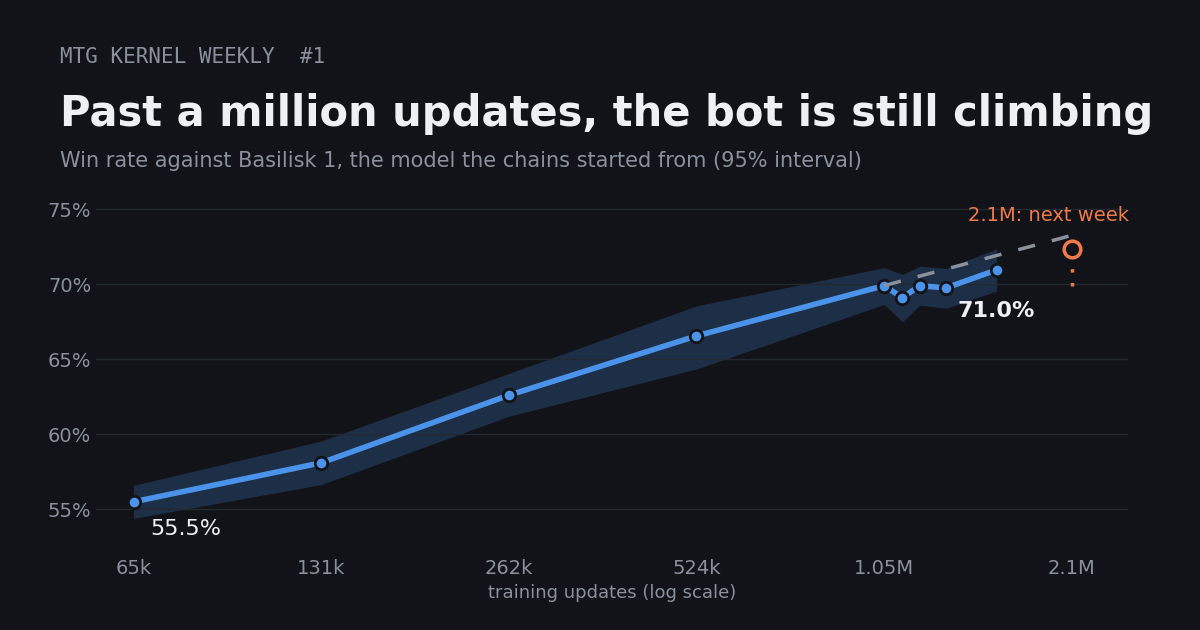
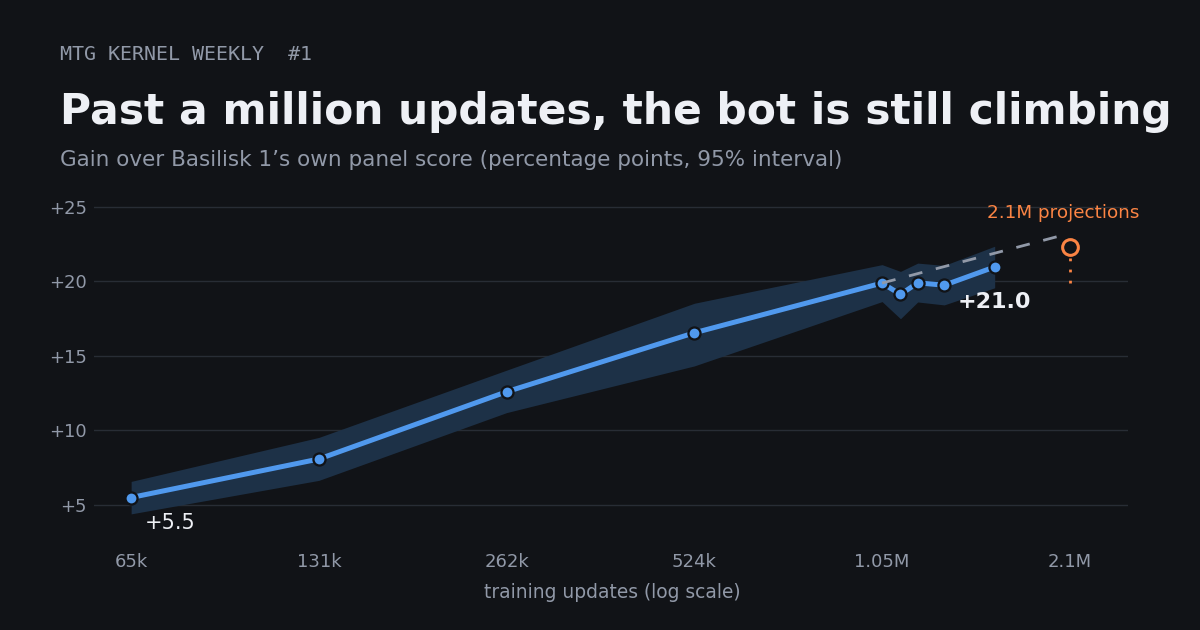
Correct the weekly chart to report paired score gains

diff --git a/viewer/public/blog/2026-11-20-still-climbing/index.html b/viewer/public/blog/2026-11-20-still-climbing/index.html
@@ -79,13 +79,13 @@ th:first-child, td:first-child { text-align: left; }
 th { color: var(--ink-3); font-weight: 500; }
 @media (prefers-reduced-motion: reduce) { * { transition: none !important; animation: none !important; } }
 </style>
-<meta name="description" content="Each doubling of training still buys wins against the model the chains started from. It just buys fewer than it used to.">
+<meta name="description" content="After a million updates, the three chains gained about 2.44 percentage points per doubling on a fixed panel. The pace may be slowing.">
 <link rel="canonical" href="https://jackmaiorino.github.io/mtg-kernel/blog/2026-11-20-still-climbing/">
 <link rel="alternate" type="application/atom+xml" title="MTG Kernel Weekly" href="../feed.xml">
 <meta property="og:type" content="article">
 <meta property="og:site_name" content="MTG Kernel">
 <meta property="og:title" content="Past a million updates, the bot is still climbing">
-<meta property="og:description" content="Each doubling of training still buys wins against the model the chains started from. It just buys fewer than it used to.">
+<meta property="og:description" content="After a million updates, the three chains gained about 2.44 percentage points per doubling on a fixed panel. The pace may be slowing.">
 <meta property="og:url" content="https://jackmaiorino.github.io/mtg-kernel/blog/2026-11-20-still-climbing/">
 <meta property="og:image" content="https://jackmaiorino.github.io/mtg-kernel/blog/2026-11-20-still-climbing/og.png">
 <meta property="og:image:width" content="1200">
@@ -99,76 +99,86 @@ th { color: var(--ink-3); font-weight: 500; }
   <header>
     <div class="eyebrow"><span>mtg-kernel weekly</span><span>#1</span><span>Week of Nov 14 to 20, 2026</span></div>
     <h1>Past a million updates, the bot is <em>still climbing</em></h1>
-    <p class="dek">Each doubling of training still buys wins. It just buys fewer than it used to.</p>
+    <p class="dek">After a million updates, the three chains gained about 2.44 percentage points per doubling on a fixed panel. The pace may be slowing.</p>
   </header>
 
   <section class="card" aria-labelledby="c1t">
     <div class="chart-head">
       <div>
-        <p class="chart-title" id="c1t">Win rate against Basilisk 1, the model the chains started from</p>
-        <p class="chart-sub">Mean of three self-play chains, 3,888 games per checkpoint, 95% interval</p>
+        <p class="chart-title" id="c1t">Gain over Basilisk 1 on the same matchups</p>
+        <p class="chart-sub">Percentage points, with a 95% paired interval. Each of three chains played 3,888 games per checkpoint.</p>
       </div>
-      <div class="big"><div class="n" id="bigN">71.0%</div><div class="l" id="bigL">at 1.59M updates</div></div>
+      <div class="big"><div class="n" id="bigN">+21.0 pts</div><div class="l" id="bigL">at 1.59M updates</div></div>
     </div>
     <div class="svgbox" id="box1">
-      <svg id="c1" viewBox="0 0 720 360" role="img" aria-label="Line chart: win rate rises from 55.5 percent at 65 thousand updates to 71.0 percent at 1.59 million updates, flattening after 1 million."></svg>
+      <svg id="c1" viewBox="0 0 720 360" role="img" aria-label="The gain over Basilisk 1 rises from 5.5 points at 65,536 updates to 21.0 points at 1.59 million updates."></svg>
       <div class="tip" id="tip" hidden></div>
     </div>
     <div class="legend">
       <span><i class="sw"></i>Measured</span>
       <span><i class="sw band"></i>95% interval</span>
       <span><i class="sw proj"></i>If every doubling paid like 524k to 1.05M</span>
-      <span><i class="sw pend"></i>2.1M: games played, not read yet</span>
+      <span><i class="sw pend"></i>2.1M projections</span>
     </div>
     <div class="controls"><button id="replay" type="button">Replay the climb</button></div>
   </section>
 
   <section class="card" aria-labelledby="c2t">
-    <p class="chart-title" id="c2t">Win rate points gained per doubling of training</p>
-    <p class="chart-sub">Past 1.05M: regression slope over nine checkpoints per chain, with its 95% interval</p>
-    <div class="svgbox"><svg id="c2" viewBox="0 0 720 210" role="img" aria-label="Bar chart: points per doubling were 2.6, 4.5, 4.0 and 3.4 through 1.05 million updates, and about 2.5 after."></svg></div>
+    <p class="chart-title" id="c2t">Percentage points gained per doubling of training updates</p>
+    <p class="chart-sub">After 1.05M, the estimate uses nine checkpoints per chain. The whisker shows the 95% interval across the three slopes.</p>
+    <div class="svgbox"><svg id="c2" viewBox="0 0 720 210" role="img" aria-label="Bar chart: points per doubling were 2.6, 4.5, 4.0 and 3.3 through 1.05 million updates, and about 2.4 after."></svg></div>
   </section>
 
   <article class="prose">
     <h2>What we learned</h2>
-    <p>Our main training chains learn Pauper by playing against themselves and a few earlier models, and the only reward is winning. At each checkpoint we test them against Basilisk 1, the public model they started from, on a fixed panel of 3,888 games.</p>
-    <p>Through the middle of the curve, each doubling of training added 3.4 to 4.5 points of win rate. Past a million updates the best estimate is about 2.5 points per doubling. The interval rules out a flat line, so the chains are still improving. It does not yet rule out the old rate, so "slowing down" is our best guess, not a settled fact.</p>
+    <p>Our main training chains learn Pauper by playing against themselves and a few earlier models, and the only reward is winning. We test them against Basilisk 1, the public model they started from. Basilisk 1 scored 49.79% against itself on the same deals. At 1.59 million updates, the three chains averaged 70.76% against it, a gain of 20.96 percentage points. A draw counts as half a win.</p>
+    <p>The last doubling before 1.05 million updates gained 3.34 points. Across the later checkpoints, the estimated gain was 2.44 points per doubling. Its 95% interval, 1.41 to 3.46, includes that earlier pace. Comparing just the first and last of those checkpoints gives a gain of 1.08 points, with an interval that includes zero.</p>
     <p>That shapes how we spend the fleet. More of the same training still pays, probably more slowly. So the next experiments add what the bot could not do before: mulligans and full priority windows are next to go into training, as their own forks.</p>
     <h2>Next week</h2>
-    <p>The first games at 2.1M updates are already played and sealed until the read. If the trend holds, it lands near 72%. If the curve has gone flat, it lands near 70%.</p>
+    <p>At the time of this analysis, two of the three chains had played their 2.1M games. Their results were still sealed. Projecting from 1.05M gives a gain over Basilisk 1 of about 22 points if the later trend continues, or about 20 points if it stays flat.</p>
   </article>
 
   <footer class="foot">
     <details>
       <summary>Show the numbers</summary>
-      <div class="tbl"><table id="tbl"><thead><tr><th>Updates</th><th>Win rate</th><th>95% interval</th></tr></thead><tbody></tbody></table></div>
+      <div class="tbl"><table id="tbl"><thead><tr><th>Updates</th><th>Gain (points)</th><th>95% interval (points)</th></tr></thead><tbody></tbody></table></div>
     </details>
-    <p>Win rate counts a draw as half a win and is read from the signed score as 50% plus half the score. The yardstick is the chains' own starting point, so this measures progress, not strength against the wider field. Spellbench ratings are the outside view.</p>
+    <p>The shaded band measures uncertainty in the gain. It resamples chains and matched deal families together. This panel measures progress against the starting model. Spellbench ratings give a wider comparison.</p>
   </footer>
 </div>
 
 <script>
 (function () {
   var pts = [
-    [65536, 55.5, 54.4, 56.6], [131072, 58.1, 56.65, 59.55], [262144, 62.6, 61.2, 64.05],
-    [524288, 66.55, 64.35, 68.55], [1048576, 69.9, 68.65, 71.1], [1122304, 69.1, 67.5, 70.65],
-    [1196032, 69.9, 68.6, 71.2], [1318912, 69.75, 68.4, 71.05], [1589248, 70.95, 69.55, 72.35]
+    [65536, 5.5041, 4.4067, 6.5844],
+    [131072, 8.0847, 6.6529, 9.5336],
+    [262144, 12.5943, 11.1968, 14.0432],
+    [524288, 16.5466, 14.3261, 18.5271],
+    [1048576, 19.8817, 18.6385, 21.1163],
+    [1122304, 19.1187, 17.4897, 20.6619],
+    [1196032, 19.8988, 18.6128, 21.2191],
+    [1318912, 19.7359, 18.4156, 21.0648],
+    [1589248, 20.9619, 19.5645, 22.3508]
   ];
   var NS = "http://www.w3.org/2000/svg";
   function el(tag, attrs, parent) { var e = document.createElementNS(NS, tag); for (var k in attrs) e.setAttribute(k, attrs[k]); if (parent) parent.appendChild(e); return e; }
-  function fmtU(u) { return u >= 1e6 ? (u / 1048576).toFixed(2).replace(/0$/, "") + "M" : Math.round(u / 1024) + "k"; }
+  function fmtU(u) {
+    if (u >= 1e6) return (u / 1e6).toFixed(2).replace(/\.?0+$/, "") + "M";
+    if (u < 1e5) return (u / 1000).toFixed(1) + "k";
+    return Math.round(u / 1000) + "k";
+  }
   function fmtLong(u) { return u.toLocaleString("en-US"); }
 
   // Chart 1
   var svg = document.getElementById("c1"), W = 720, H = 360, L = 48, R = 20, T = 14, B = 40;
-  var xMin = -0.15, xMax = 5.25, yMin = 52, yMax = 75;
+  var xMin = -0.15, xMax = 5.25, yMin = 2, yMax = 25;
   function X(u) { return L + (Math.log2(u / 65536) - xMin) / (xMax - xMin) * (W - L - R); }
   function Y(v) { return T + (yMax - v) / (yMax - yMin) * (H - T - B); }
-  [55, 60, 65, 70, 75].forEach(function (v) {
+  [5, 10, 15, 20, 25].forEach(function (v) {
     el("line", { x1: L, x2: W - R, y1: Y(v), y2: Y(v), stroke: "var(--grid)", "stroke-width": 1 }, svg);
-    el("text", { x: L - 8, y: Y(v) + 4, "text-anchor": "end" }, svg).textContent = v + "%";
+    el("text", { x: L - 8, y: Y(v) + 4, "text-anchor": "end" }, svg).textContent = "+" + v;
   });
-  [[65536, "65k"], [131072, "131k"], [262144, "262k"], [524288, "524k"], [1048576, "1.05M"], [2097152, "2.1M"]].forEach(function (t) {
+  [[65536, "65.5k"], [131072, "131k"], [262144, "262k"], [524288, "524k"], [1048576, "1.05M"], [2097152, "2.1M"]].forEach(function (t) {
     el("text", { x: X(t[0]), y: H - B + 20, "text-anchor": "middle" }, svg).textContent = t[1];
   });
   el("text", { x: (L + W - R) / 2, y: H - 4, "text-anchor": "middle", class: "lab" }, svg).textContent = "training updates (log scale, each tick is a doubling)";
@@ -176,32 +186,32 @@ th { color: var(--ink-3); font-weight: 500; }
   var band = "M" + pts.map(function (p) { return X(p[0]) + "," + Y(p[3]); }).join("L") + "L" + pts.slice().reverse().map(function (p) { return X(p[0]) + "," + Y(p[2]); }).join("L") + "Z";
   el("path", { d: band, fill: "var(--band)", stroke: "none" }, svg);
 
-  // projection: +3.35 points per doubling from the 1.05M point
-  el("path", { d: "M" + X(1048576) + "," + Y(69.9) + "L" + X(2097152) + "," + Y(69.9 + 3.35), fill: "none", stroke: "var(--proj)", "stroke-width": 2, "stroke-dasharray": "5 5" }, svg);
-  el("text", { x: X(2097152) + 8, y: Y(73.25) + 4, class: "lab" }, svg).textContent = "73";
+  // Extend the preceding doubling from its observed endpoint.
+  el("path", { d: "M" + X(1048576) + "," + Y(19.8817) + "L" + X(2097152) + "," + Y(19.8817 + 3.3350), fill: "none", stroke: "var(--proj)", "stroke-width": 2, "stroke-dasharray": "5 5" }, svg);
+  el("text", { x: X(2097152) + 8, y: Y(23.2167) + 4, class: "lab" }, svg).textContent = "+23";
 
-  // pending 2.1M: trend range 71.3 to 73.4, flat 69.9
+  // Two scenarios at 2.1M, relative to the 1.05M gain: flat or continued late slope.
   var px = X(2097152);
-  el("line", { x1: px, x2: px, y1: Y(73.4), y2: Y(69.9), stroke: "var(--pending)", "stroke-width": 2, "stroke-dasharray": "2 4", "stroke-linecap": "round" }, svg);
-  el("circle", { cx: px, cy: Y(72.35), r: 6, fill: "var(--card)", stroke: "var(--pending)", "stroke-width": 2 }, svg);
+  el("line", { x1: px, x2: px, y1: Y(22.3176), y2: Y(19.8817), stroke: "var(--pending)", "stroke-width": 2, "stroke-dasharray": "2 4", "stroke-linecap": "round" }, svg);
+  el("circle", { cx: px, cy: Y(22.3176), r: 6, fill: "var(--card)", stroke: "var(--pending)", "stroke-width": 2 }, svg);
 
   var line = el("path", { d: "M" + pts.map(function (p) { return X(p[0]) + "," + Y(p[1]); }).join("L"), fill: "none", stroke: "var(--accent)", "stroke-width": 2.5, "stroke-linejoin": "round", "stroke-linecap": "round" }, svg);
   var dots = pts.map(function (p) { return el("circle", { cx: X(p[0]), cy: Y(p[1]), r: 4.5, fill: "var(--accent)", stroke: "var(--card)", "stroke-width": 2 }, svg); });
-  el("text", { x: X(65536) + 10, y: Y(55.5) + 18, class: "lab" }, svg).textContent = "55.5%";
-  el("text", { x: X(1589248) - 4, y: Y(70.95) + 26, "text-anchor": "end", class: "lab" }, svg).textContent = "71.0%";
+  el("text", { x: X(65536) + 10, y: Y(pts[0][1]) + 18, class: "lab" }, svg).textContent = "+5.5";
+  el("text", { x: X(1589248) - 4, y: Y(pts[pts.length - 1][1]) + 26, "text-anchor": "end", class: "lab" }, svg).textContent = "+21.0";
 
   // hover
   var tip = document.getElementById("tip"), box = document.getElementById("box1");
   var hits = pts.map(function (p) { return { p: p, x: X(p[0]), y: Y(p[1]) }; });
-  hits.push({ pend: true, x: px, y: Y(72.35) });
+  hits.push({ pend: true, x: px, y: Y(22.3176) });
   function show(evt) {
     var r = svg.getBoundingClientRect(), sx = (evt.clientX - r.left) * W / r.width;
     var best = null, bd = 1e9;
     hits.forEach(function (h) { var d = Math.abs(h.x - sx); if (d < bd) { bd = d; best = h; } });
     if (!best || bd > 40) { tip.hidden = true; return; }
     tip.innerHTML = best.pend
-      ? "2,097,152 updates<br>played and sealed, read next week<br>trend says about 72%, flat says 70%"
-      : fmtLong(best.p[0]) + " updates<br><b>" + best.p[1].toFixed(1) + "%</b> win rate<br>95%: " + best.p[2].toFixed(1) + " to " + best.p[3].toFixed(1);
+      ? "2,097,152 updates<br>two chains played, results sealed at analysis<br>continued trend +22 points, flat +20"
+      : fmtLong(best.p[0]) + " updates<br><b>" + best.p[1].toFixed(1) + " pts</b> gain<br>95% interval: " + best.p[2].toFixed(1) + " to " + best.p[3].toFixed(1);
     tip.style.left = (best.x * r.width / W) + "px";
     tip.style.top = (best.y * r.height / H) + "px";
     tip.hidden = false;
@@ -222,15 +232,15 @@ th { color: var(--ink-3); font-weight: 500; }
       line.style.strokeDashoffset = len * (1 - e);
       var drawnX = L + e * (X(1589248) - L), cur = pts[0];
       pts.forEach(function (p, i) { if (X(p[0]) <= drawnX + 0.5) { dots[i].style.opacity = 1; cur = p; } });
-      bigN.textContent = cur[1].toFixed(1) + "%"; bigL.textContent = "at " + fmtU(cur[0]) + " updates";
-      if (k < 1) requestAnimationFrame(frame); else { line.style.strokeDasharray = ""; line.style.strokeDashoffset = ""; bigN.textContent = "71.0%"; bigL.textContent = "at 1.59M updates"; }
+      bigN.textContent = "+" + cur[1].toFixed(1) + " pts"; bigL.textContent = "at " + fmtU(cur[0]) + " updates";
+      if (k < 1) requestAnimationFrame(frame); else { line.style.strokeDasharray = ""; line.style.strokeDashoffset = ""; bigN.textContent = "+21.0 pts"; bigL.textContent = "at 1.59M updates"; }
     }
     requestAnimationFrame(frame);
   });
 
   // Chart 2: points per doubling
   var s2 = document.getElementById("c2"), W2 = 720, H2 = 210, L2 = 48, R2 = 20, T2 = 18, B2 = 38, yM = 5;
-  var bars = [["65k to 131k", 2.6], ["131k to 262k", 4.5], ["262k to 524k", 3.95], ["524k to 1.05M", 3.35], ["past 1.05M", 2.45, 1.4, 3.45]];
+  var bars = [["65.5k to 131k", 2.5806], ["131k to 262k", 4.5096], ["262k to 524k", 3.9523], ["524k to 1.05M", 3.3350], ["past 1.05M", 2.4359, 1.4072, 3.4645]];
   function Y2(v) { return T2 + (yM - v) / yM * (H2 - T2 - B2); }
   [0, 1, 2, 3, 4, 5].forEach(function (v) {
     el("line", { x1: L2, x2: W2 - R2, y1: Y2(v), y2: Y2(v), stroke: v ? "var(--grid)" : "var(--rule)", "stroke-width": 1 }, s2);
@@ -252,7 +262,7 @@ th { color: var(--ink-3); font-weight: 500; }
 
   // table
   var tb = document.querySelector("#tbl tbody");
-  pts.forEach(function (p) { var tr = document.createElement("tr"); tr.innerHTML = "<td>" + fmtLong(p[0]) + "</td><td>" + p[1].toFixed(1) + "%</td><td>" + p[2].toFixed(1) + " to " + p[3].toFixed(1) + "</td>"; tb.appendChild(tr); });
+  pts.forEach(function (p) { var tr = document.createElement("tr"); tr.innerHTML = "<td>" + fmtLong(p[0]) + "</td><td>" + p[1].toFixed(1) + "</td><td>" + p[2].toFixed(1) + " to " + p[3].toFixed(1) + "</td>"; tb.appendChild(tr); });
 })();
 </script>
 </body>

diff --git a/viewer/public/blog/index.html b/viewer/public/blog/index.html
@@ -56,9 +56,9 @@ h1 { font-family: var(--f-display); font-size: clamp(30px, 6vw, 44px); line-heig
       <div>
         <div class="meta">#1 · Nov 20, 2026</div>
         <h2>Past a million updates, the bot is still climbing</h2>
-        <p>Each doubling of training still buys wins. It just buys fewer than it used to.</p>
+        <p>After a million updates, the three chains gained about 2.44 percentage points per doubling on a fixed panel. The pace may be slowing.</p>
       </div>
-      <img src="2026-11-20-still-climbing/og.png" alt="Learning curve: win rate rises from 55.5% to 71.0% between 65 thousand and 1.59 million training updates." width="1200" height="630" loading="lazy">
+      <img src="2026-11-20-still-climbing/og.png" alt="The gain over Basilisk 1 rises from 5.5 to 21.0 percentage points between 65 thousand and 1.59 million updates." width="1200" height="630" loading="lazy">
     </a></li>
   </ul>
   <p class="foot">Numbers come from the project's own evaluation records, with 95% intervals. Older models are public on Hugging Face; the replay viewer is the Decision Studio.</p>
